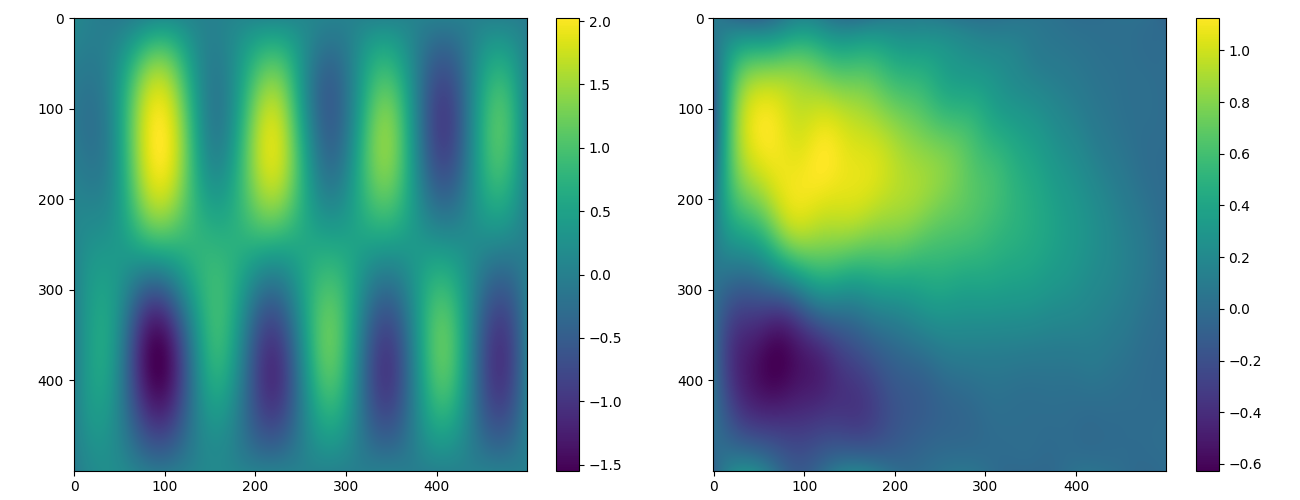
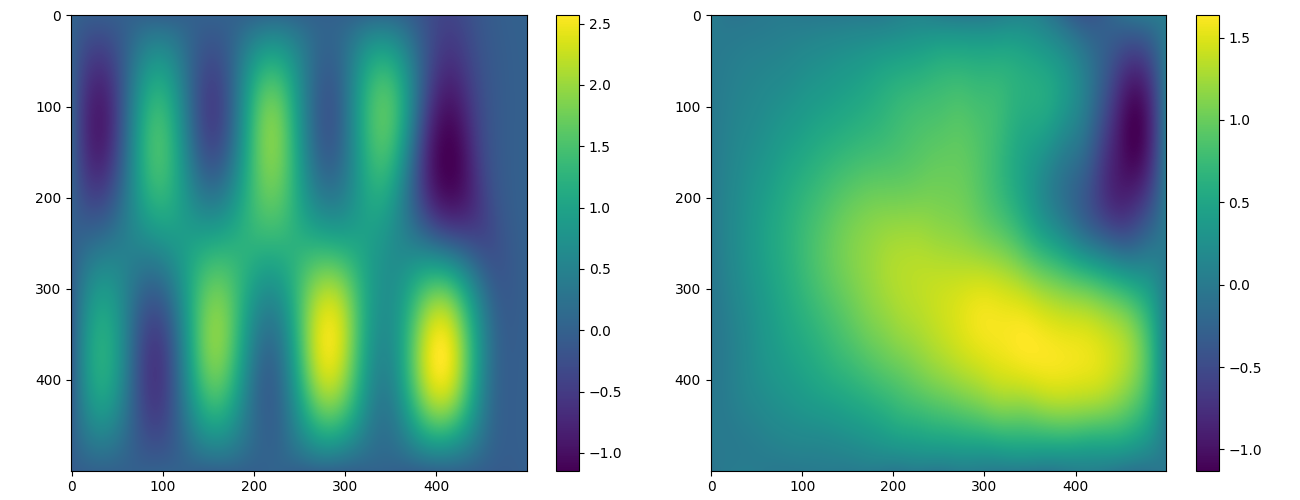
加入coef的历史贡献

diff --git a/Helmholtz/Helmholtz.py b/Helmholtz/Helmholtz.py
@@ -91,7 +91,8 @@ def loss_bc4(net):
 net = MLP().to(device)
 optimizer = torch.optim.Adam(params=net.parameters())
 
-for i in tqdm(range(10000)):
+history_coef = [torch.tensor(0) for i in range(4)]
+for i in tqdm(range(5000)):
     loss_list = [loss_interior(net), loss_bc1(net), loss_bc2(net), loss_bc3(net), loss_bc4(net)]
     optimizer.zero_grad()
     grads = []
@@ -102,13 +103,15 @@ for i in tqdm(range(10000)):
         optimizer.zero_grad()
         # loss_total += l
     
-    max_res_loss = max([torch.norm(grads[0][i]) for i in range(len(grads[0]))])
+    mean_res_loss = torch.mean(torch.tensor(
+        [torch.norm(grads[0][i]) for i in range(len(grads[0]))]))
     mean_constrain_loss = []
     for i in range(1, len(loss_list)):
-        mean_constrain_loss.append(torch.mean(
+        mean_constrain_loss.append(torch.max(
             torch.tensor([torch.norm(grads[i][j]) for j in range(len(grads[i]))])))
-    coef = [max_res_loss/constrain_loss for constrain_loss in mean_constrain_loss]
-    
+    coef = [mean_res_loss/constrain_loss * 0.9 for constrain_loss in mean_constrain_loss] \
+           + [i * 0.9 for i in history_coef] 
+    history_coef = coef
     # optimizer.zero_grad()
     loss_total = loss_interior(net)\
         + coef[0] * loss_bc1(net)\
